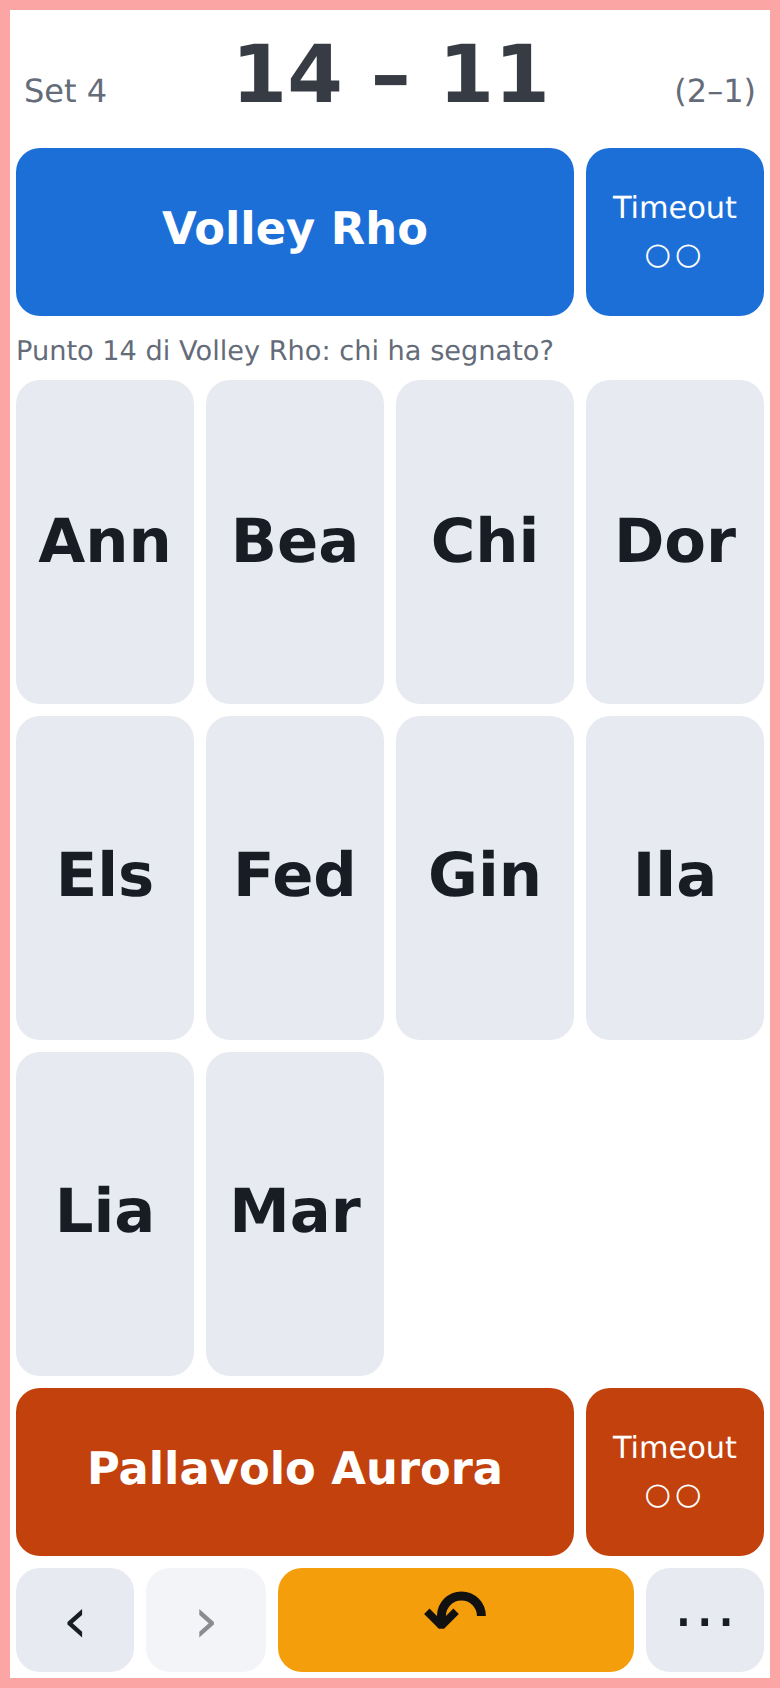
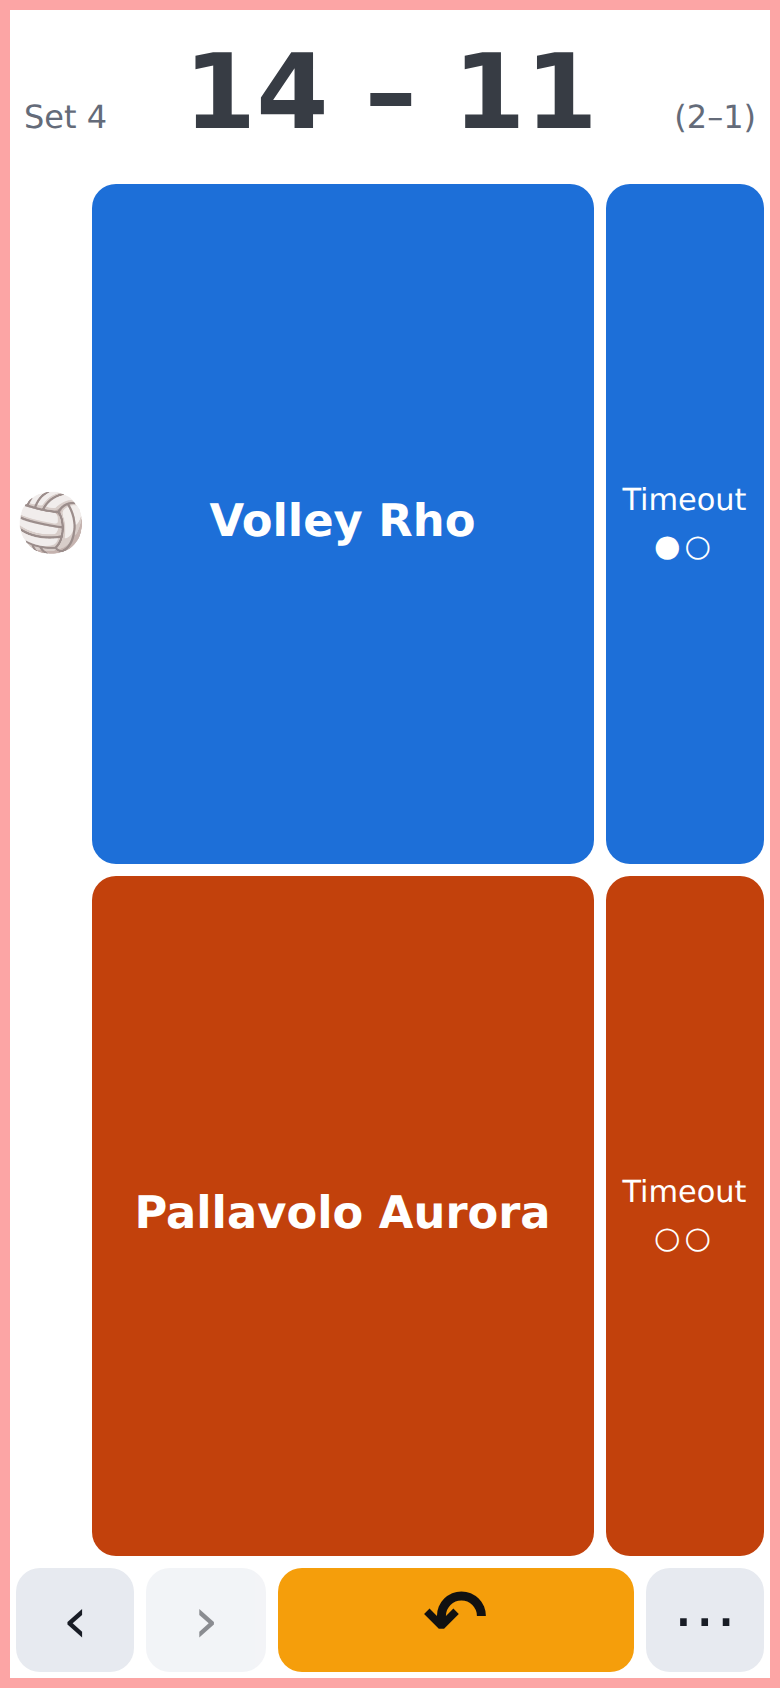
Redo the screenshots for the screen without scorers and with the ball
The old pictures showed the scorer buttons and the feed of scorers, which are
gone; the new ones show the ball beside the serving team and the larger score.
Both are taken from the example team, in a match played with a plausible log.

diff --git a/README.md b/README.md
@@ -19,7 +19,7 @@ corrected from the menu.
 
 <p>
 <img src="docs/screenshots/family.png" alt="Family page of a live match: the score, the link to the chart of the points and the finished sets with their times" width="300">
-<img src="docs/screenshots/staff.png" alt="Staff scoring screen: a button for each team, and the undo and the menu below" width="300">
+<img src="docs/screenshots/staff.png" alt="Staff scoring screen: a button and a timeout for each team, the ball beside the serving team, and the undo and the menu below" width="300">
 </p>
 
 ## Running it

diff --git a/docs/contract.md b/docs/contract.md
@@ -43,7 +43,8 @@ made first, then in the code that depends on it.
   (`name`, optional `address`), optional `rules`.
 
 The app holds no name of a person: a team file with a `roster`, `show_scorers`
-or a match `players` is refused, naming the key.
+or a match `players` is refused, naming the key, and so is a match log with an
+event that has a `player`.
 
 The server validates the whole file at startup and names the offending path.
 
